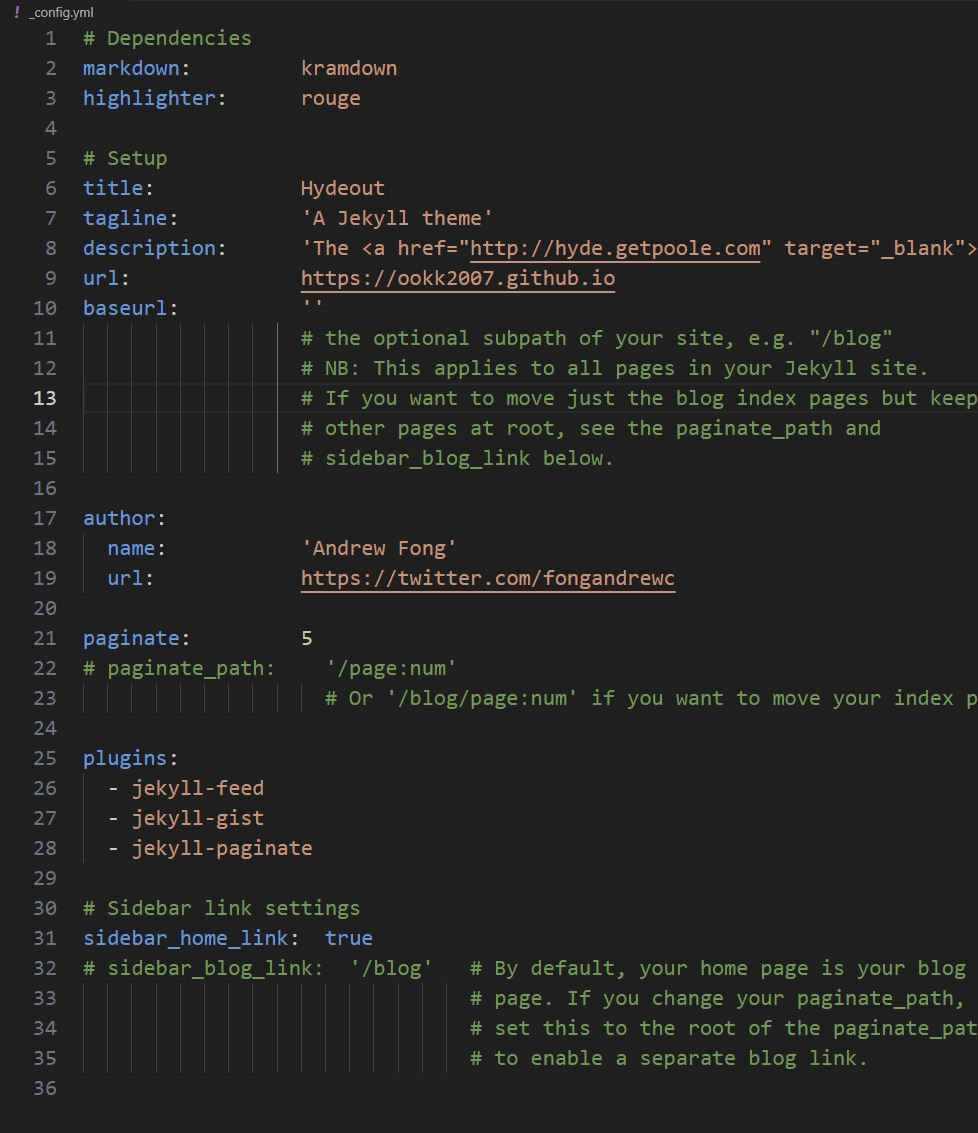
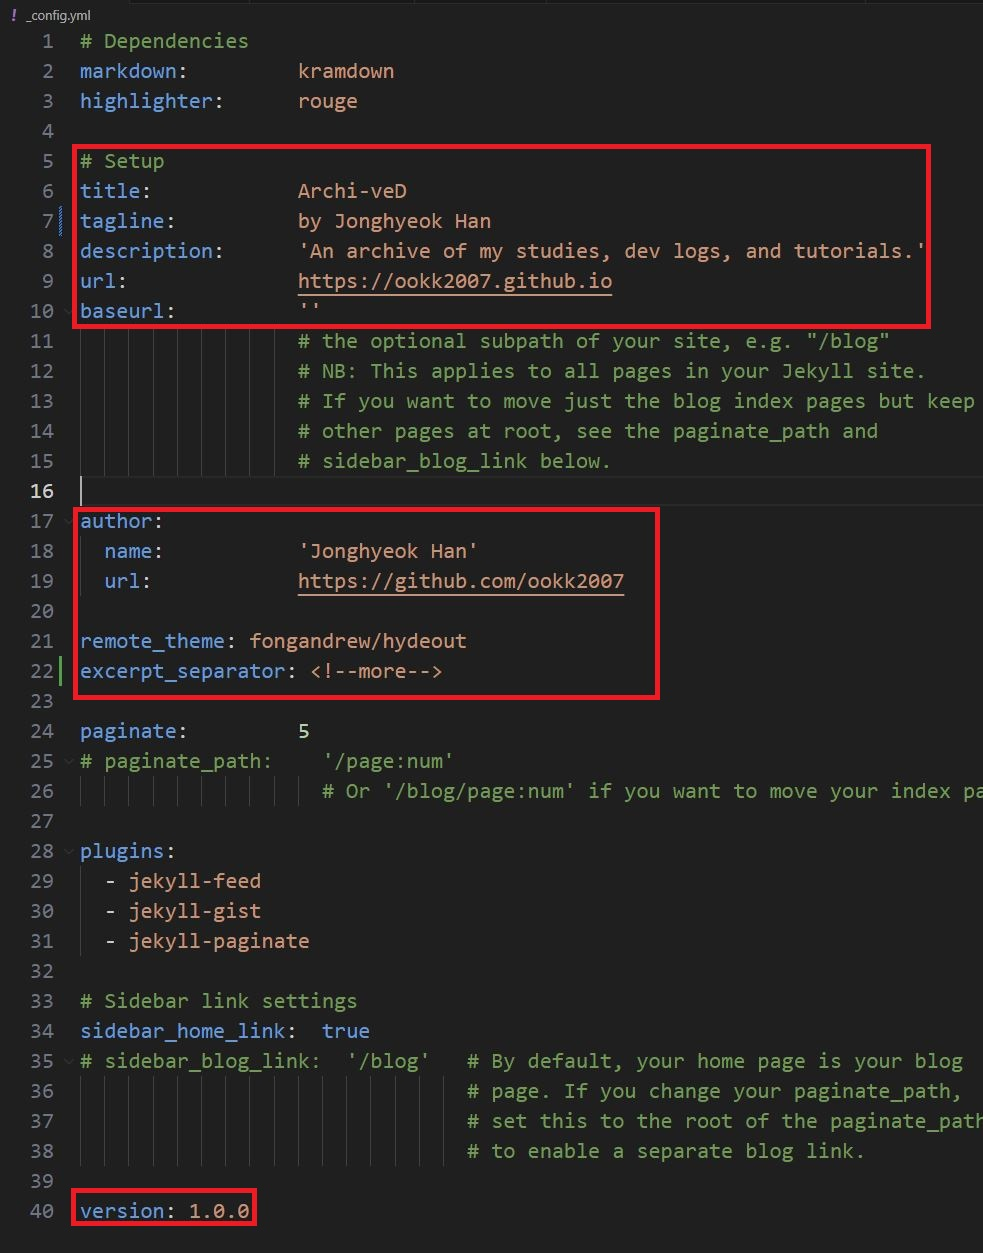
Fix some config error & Complete github-pages-1.md

Changed region(s): [[0.0307, 0.0, 1.0, 0.9885], [0.4601, 0.8341, 1.0, 0.9576]]

diff --git a/_sass/hydeout/_base.scss b/_sass/hydeout/_base.scss
@@ -32,6 +32,16 @@ section {
   display: block;
 }
 
+details p{
+  margin-left: 20px; /* 들여쓰기 */
+}
+
+details summary {
+  //font-weight: bold; /* 제목 강조 (선택 사항) */
+  cursor: pointer; /* 클릭 가능하게 변경 */
+}
+
+
 // No `:visited` state is required by default (browsers will use `a`)
 a {
   color: $link-color;
